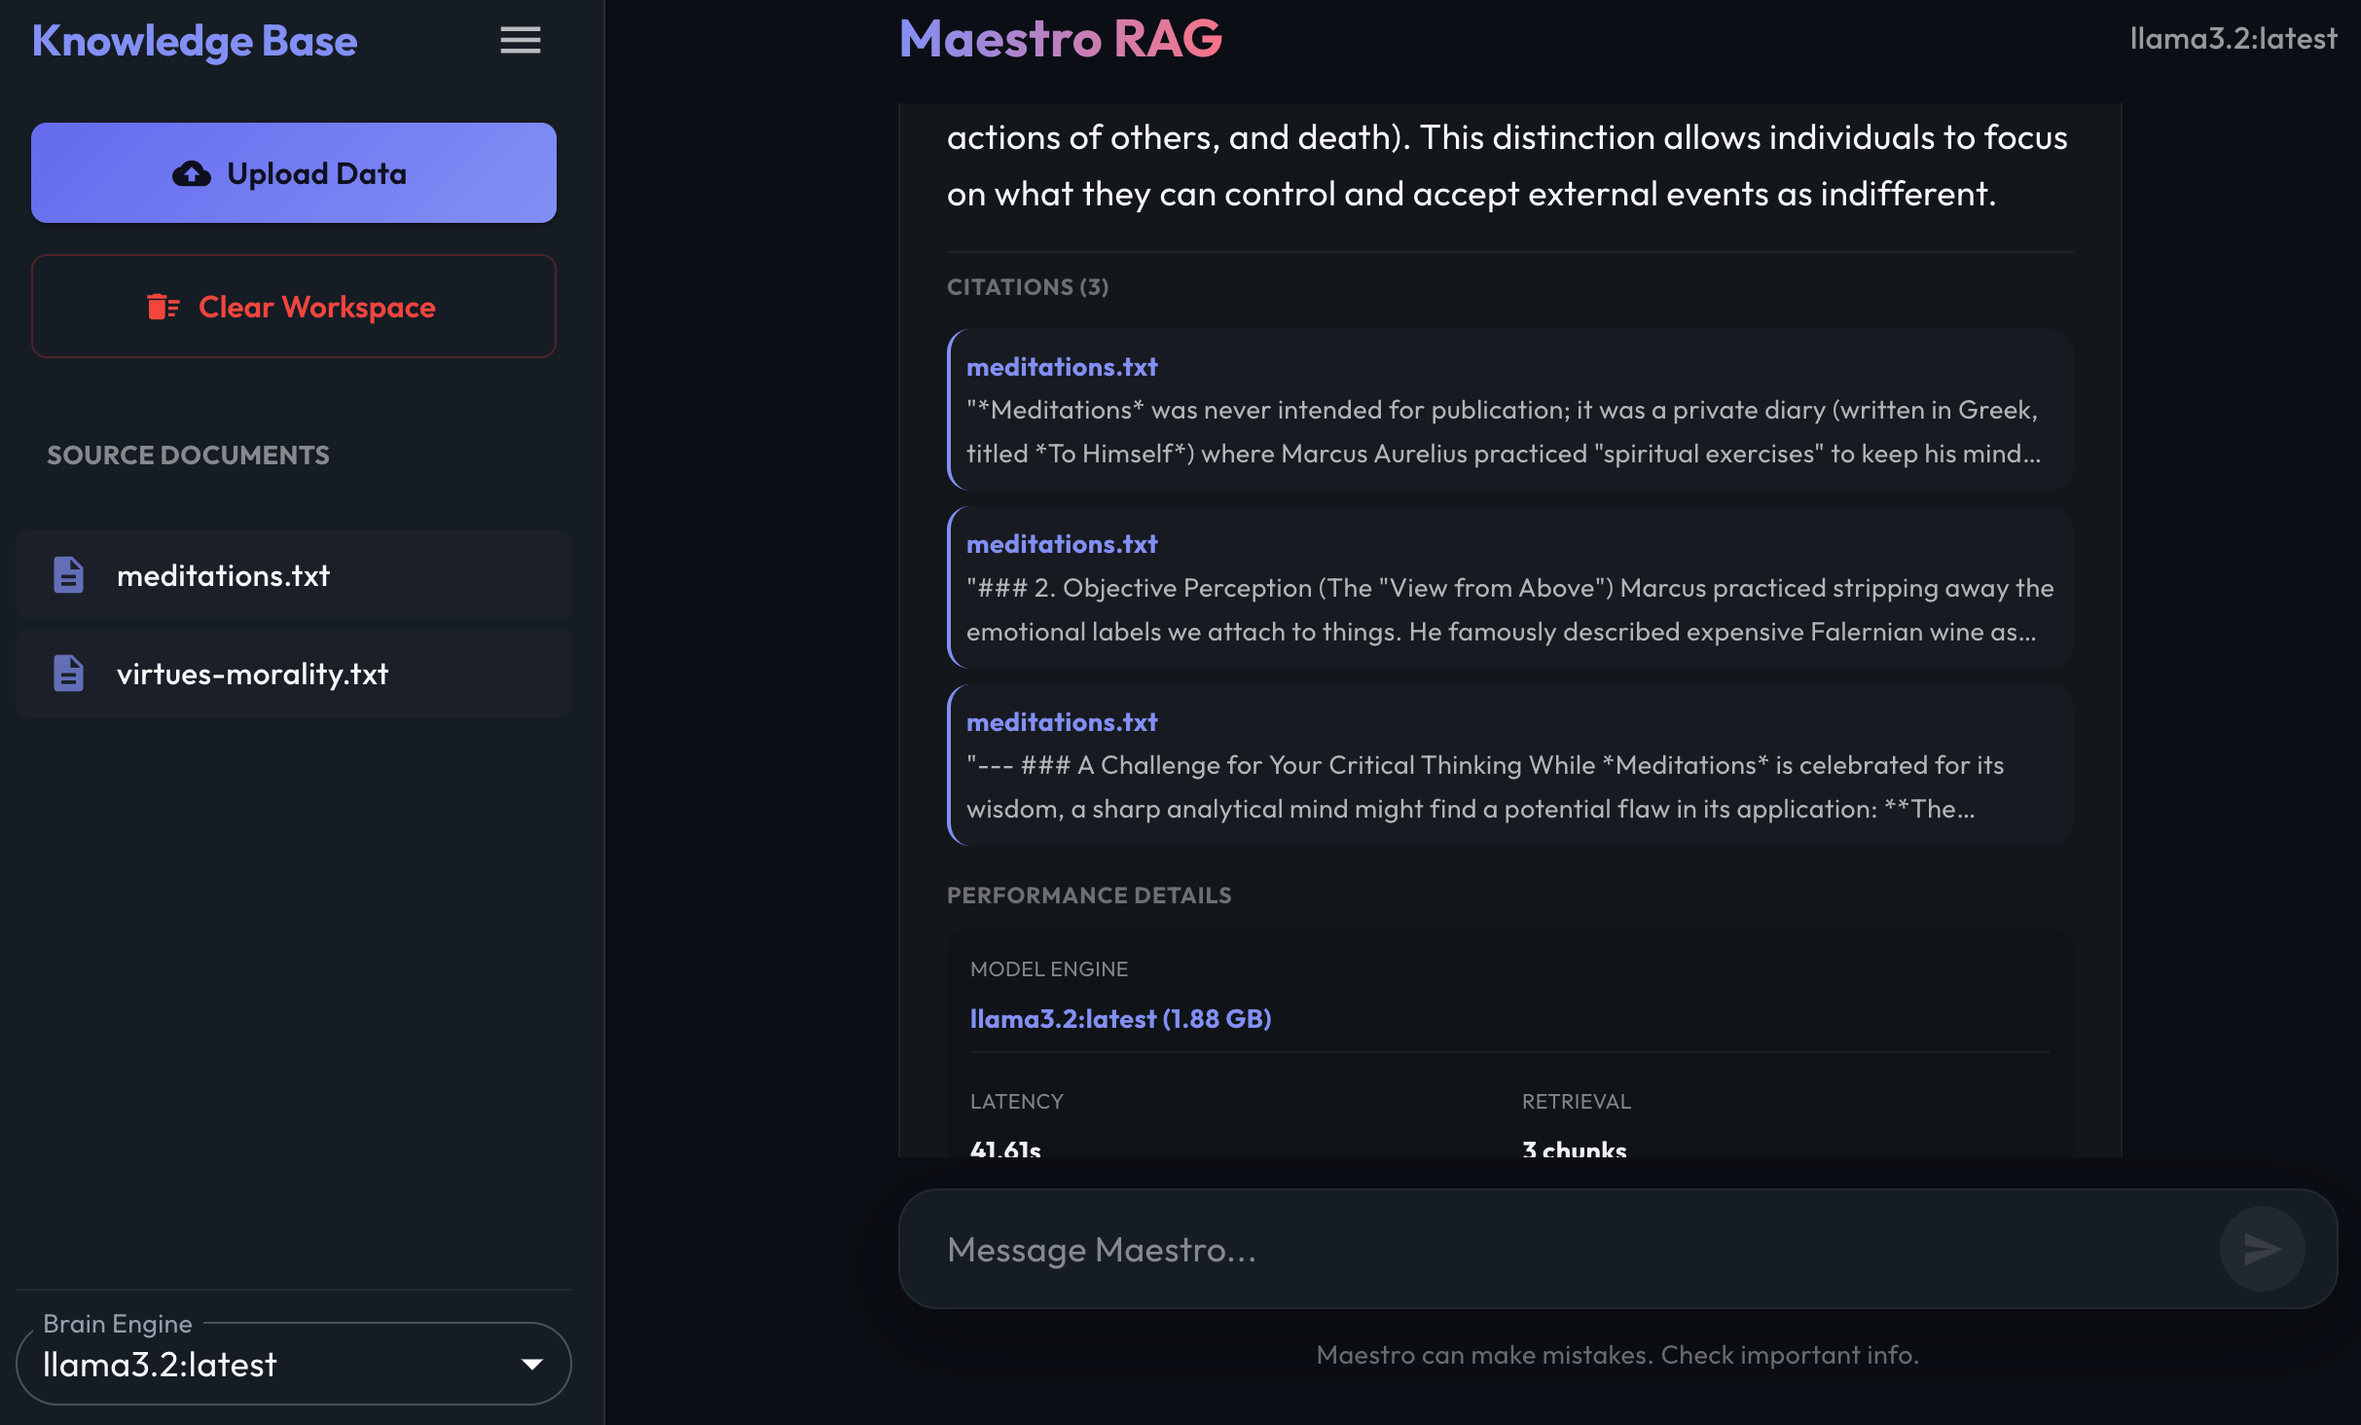
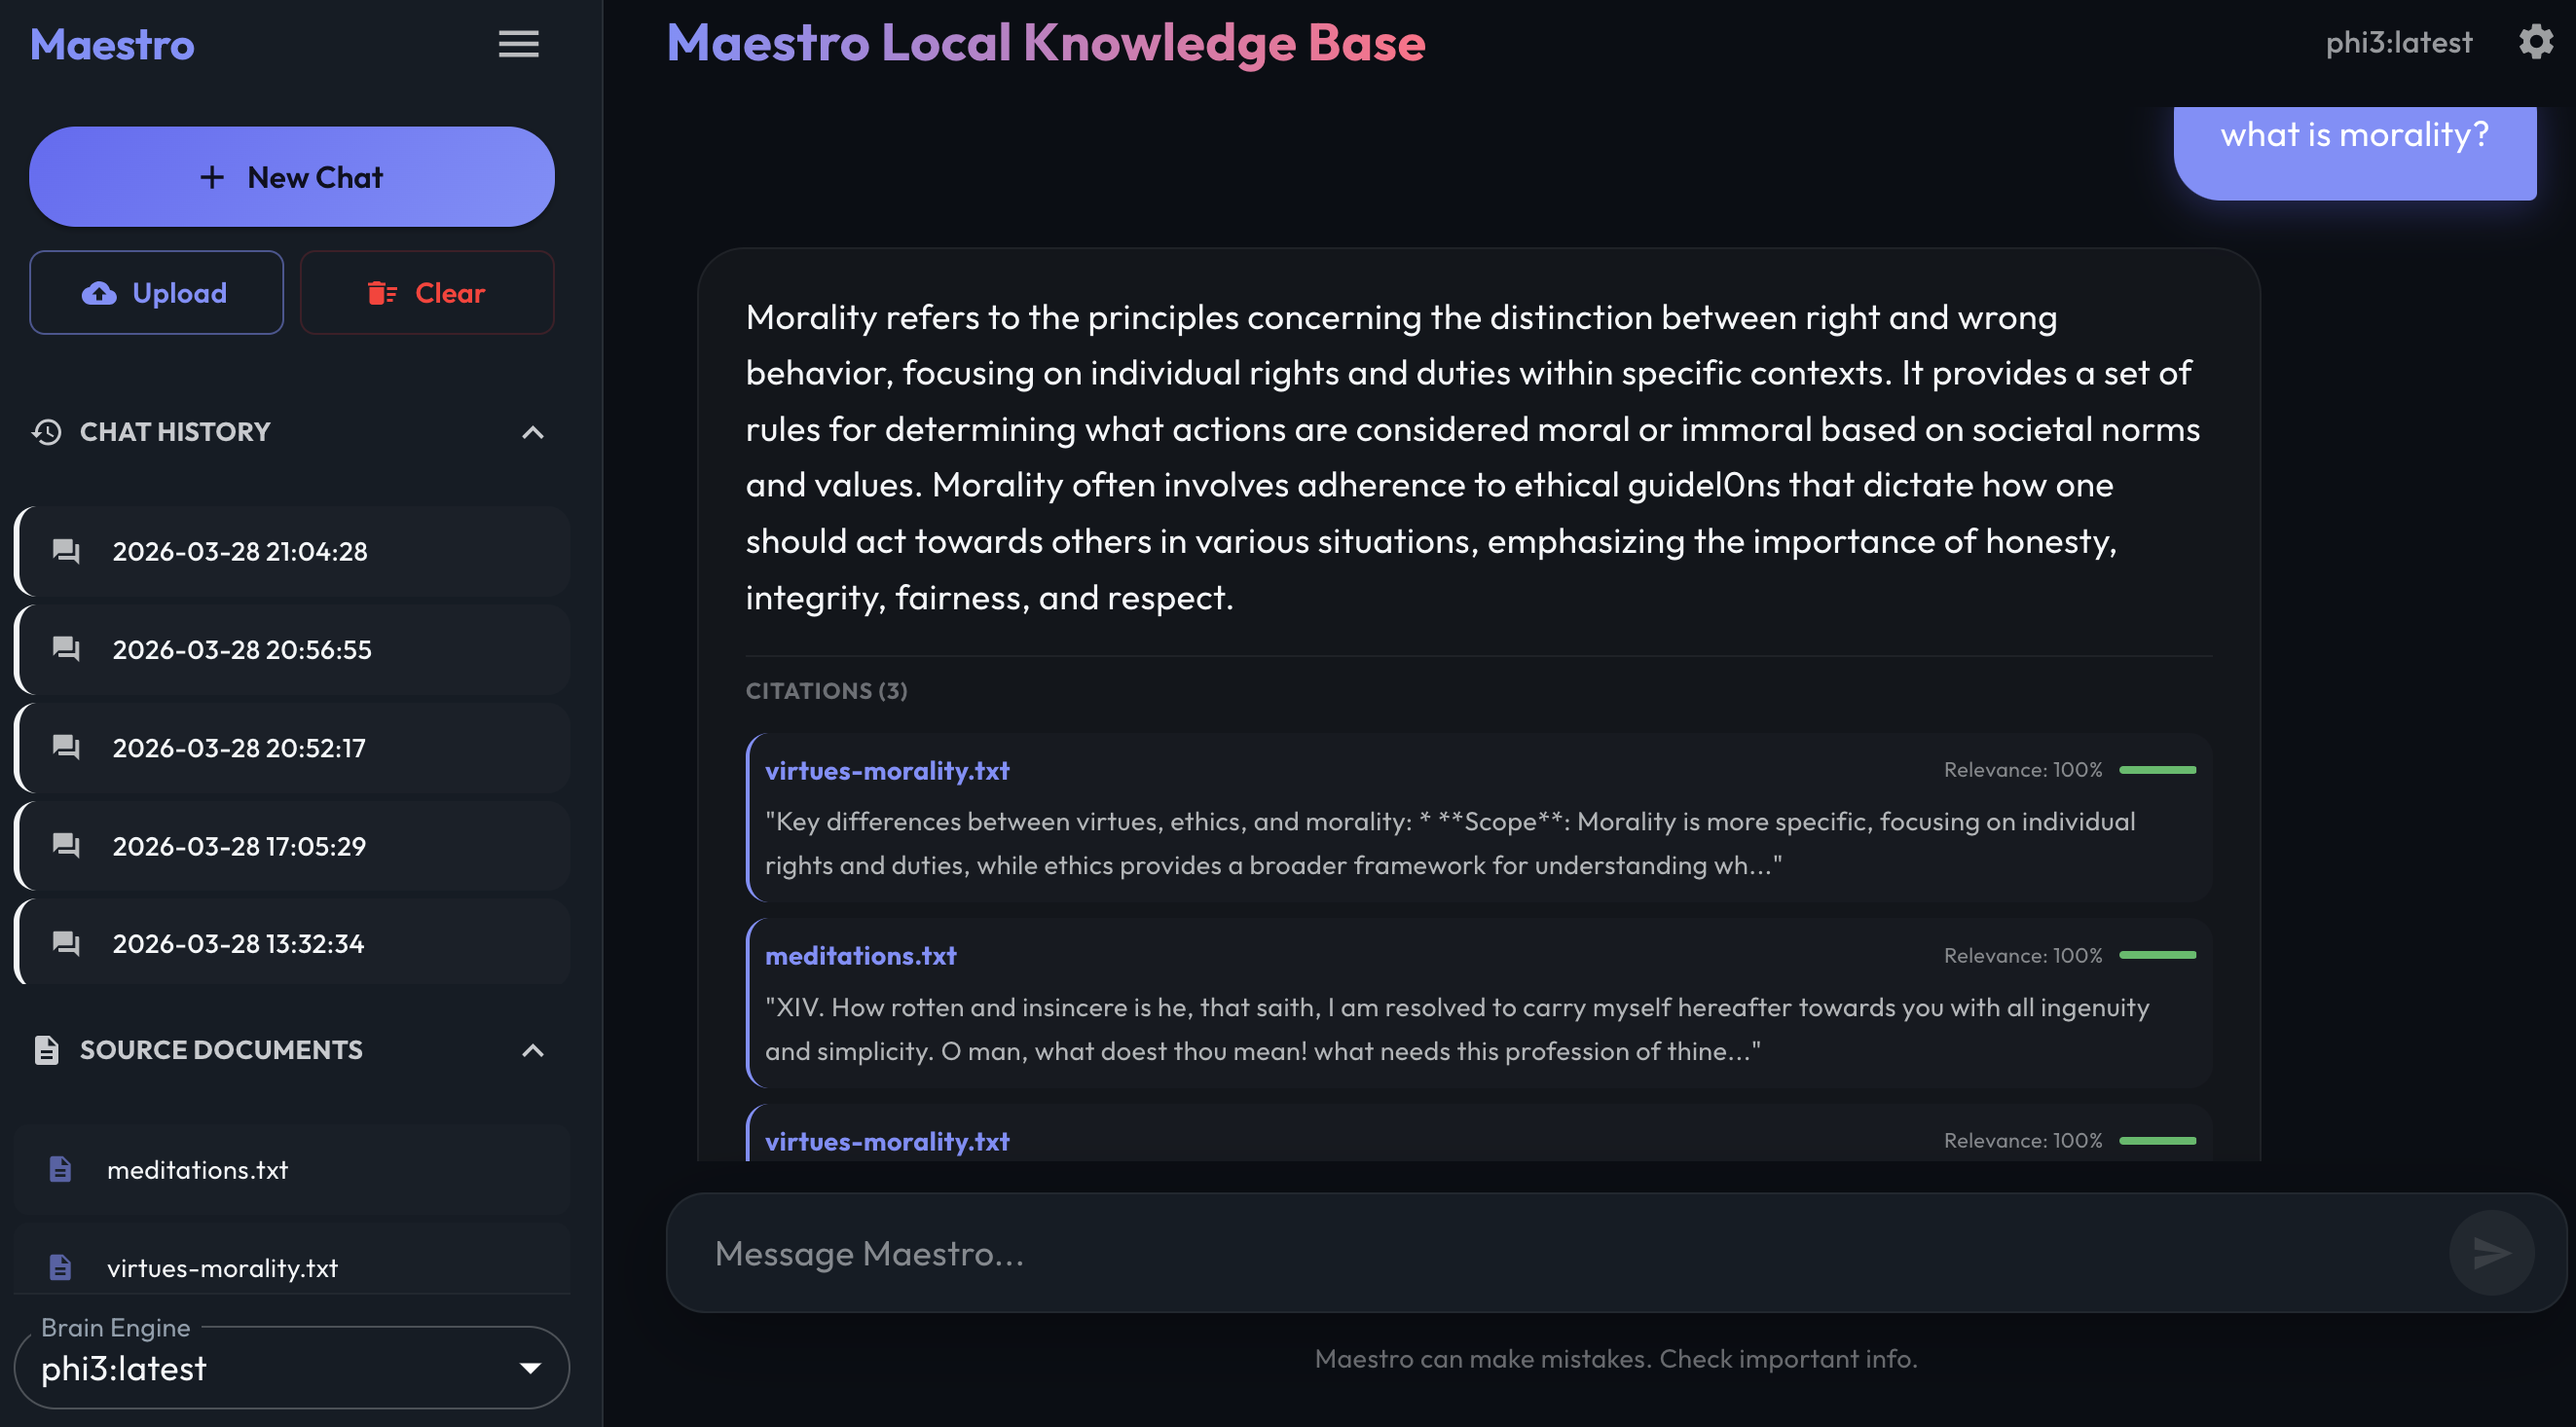
introducing model output settings

diff --git a/frontend/src/App.tsx b/frontend/src/App.tsx
@@ -30,6 +30,16 @@ import AddIcon from '@mui/icons-material/Add';
 import ExpandMoreIcon from '@mui/icons-material/ExpandMore';
 import ExpandLessIcon from '@mui/icons-material/ExpandLess';
 import ForumIcon from '@mui/icons-material/Forum';
+import SettingsIcon from '@mui/icons-material/Settings';
+import TuneIcon from '@mui/icons-material/Tune';
+import { 
+  Slider, 
+  Dialog, 
+  DialogTitle, 
+  DialogContent, 
+  DialogActions,
+  LinearProgress
+} from '@mui/material';
 import axios from 'axios';
 import theme from './theme';
 
@@ -47,6 +57,7 @@ interface Performance {
 interface Source {
   source: string;
   content: string;
+  relevance_score?: number;
 }
 
 interface Message {
@@ -70,6 +81,10 @@ function App() {
   const [currentSessionId, setCurrentSessionId] = useState<string | null>(null);
   const [sourcesOpen, setSourcesOpen] = useState(false);
   const [historyOpen, setHistoryOpen] = useState(true);
+  const [settingsOpen, setSettingsOpen] = useState(false);
+  const [temperature, setTemperature] = useState(0.0);
+  const [topP, setTopP] = useState(0.9);
+  const [systemPrompt, setSystemPrompt] = useState("");
 
   useEffect(() => {
     fetchModels();
@@ -156,7 +171,10 @@ function App() {
         body: JSON.stringify({
           question: input,
           model: selectedModel,
-          session_id: currentSessionId
+          session_id: currentSessionId,
+          temperature: temperature,
+          top_p: topP,
+          system_prompt: systemPrompt || undefined
         }),
       });
 
@@ -541,9 +559,18 @@ function App() {
                 Maestro Local Knowledge Base
               </Typography>
             </Box>
-            <Typography variant="body2" sx={{ opacity: 0.6, fontWeight: 500 }}>
-              {selectedModel}
-            </Typography>
+            <Box sx={{ display: 'flex', alignItems: 'center', gap: 2 }}>
+              <Typography variant="body2" sx={{ opacity: 0.6, fontWeight: 500 }}>
+                {selectedModel}
+              </Typography>
+              <IconButton 
+                size="small" 
+                onClick={() => setSettingsOpen(true)}
+                sx={{ opacity: 0.6, '&:hover': { opacity: 1, color: 'primary.main' } }}
+              >
+                <SettingsIcon fontSize="small" />
+              </IconButton>
+            </Box>
           </Box>
 
           {/* Chat Messages */}
@@ -641,12 +668,28 @@ function App() {
                               borderLeft: '2px solid',
                               borderColor: 'primary.main',
                             }}>
-                              <Typography variant="caption" sx={{ fontWeight: 700, color: 'primary.main', display: 'block' }}>
-                                {s.source}
-                              </Typography>
-                              <Typography variant="caption" sx={{ opacity: 0.7, fontStyle: 'italic', display: '-webkit-box', WebkitLineClamp: 2, WebkitBoxOrient: 'vertical', overflow: 'hidden' }}>
-                                "{s.content}"
-                              </Typography>
+                                <Box sx={{ display: 'flex', justifyContent: 'space-between', alignItems: 'center', mb: 0.5 }}>
+                                  <Typography variant="caption" sx={{ fontWeight: 700, color: 'primary.main' }}>
+                                    {s.source}
+                                  </Typography>
+                                  {s.relevance_score !== undefined && (
+                                    <Box sx={{ display: 'flex', alignItems: 'center', gap: 1 }}>
+                                      <Typography variant="caption" sx={{ fontSize: '0.6rem', opacity: 0.5 }}>
+                                        Relevance: {(s.relevance_score * 100).toFixed(0)}%
+                                      </Typography>
+                                      <Box sx={{ width: 40, height: 4, bgcolor: 'rgba(255,255,255,0.05)', borderRadius: 1, overflow: 'hidden' }}>
+                                        <Box sx={{ 
+                                          height: '100%', 
+                                          width: `${s.relevance_score * 100}%`, 
+                                          bgcolor: s.relevance_score > 0.7 ? 'success.main' : 'warning.main' 
+                                        }} />
+                                      </Box>
+                                    </Box>
+                                  )}
+                                </Box>
+                                <Typography variant="caption" sx={{ opacity: 0.7, fontStyle: 'italic', display: '-webkit-box', WebkitLineClamp: 2, WebkitBoxOrient: 'vertical', overflow: 'hidden' }}>
+                                  "{s.content}"
+                                </Typography>
                             </Box>
                           ))}
                         </Box>
@@ -781,6 +824,78 @@ function App() {
           </Box>
         </Box>
       </Box>
+      <Dialog 
+        open={settingsOpen} 
+        onClose={() => setSettingsOpen(false)}
+        maxWidth="sm"
+        fullWidth
+        PaperProps={{
+          className: "glass",
+          sx: { borderRadius: 3, p: 1 }
+        }}
+      >
+        <DialogTitle sx={{ display: 'flex', alignItems: 'center', gap: 1.5, fontWeight: 700 }}>
+          <TuneIcon color="primary" /> Advanced Model Settings
+        </DialogTitle>
+        <DialogContent>
+          <Box sx={{ mt: 2, display: 'flex', flexDirection: 'column', gap: 4 }}>
+            <Box>
+              <Typography variant="subtitle2" gutterBottom sx={{ display: 'flex', justifyContent: 'space-between' }}>
+                Temperature <span>{temperature.toFixed(1)}</span>
+              </Typography>
+              <Typography variant="caption" sx={{ opacity: 0.5, display: 'block', mb: 1.5 }}>
+                Controls randomness. Higher values make output more creative, lower values more focused.
+              </Typography>
+              <Slider 
+                value={temperature} 
+                onChange={(_, v) => setTemperature(v as number)} 
+                min={0} max={1} step={0.1}
+                valueLabelDisplay="auto"
+              />
+            </Box>
+            
+            <Box>
+              <Typography variant="subtitle2" gutterBottom sx={{ display: 'flex', justifyContent: 'space-between' }}>
+                Top-P <span>{topP.toFixed(2)}</span>
+              </Typography>
+              <Typography variant="caption" sx={{ opacity: 0.5, display: 'block', mb: 1.5 }}>
+                Nucleus sampling. Probability threshold for choosing next tokens.
+              </Typography>
+              <Slider 
+                value={topP} 
+                onChange={(_, v) => setTopP(v as number)} 
+                min={0} max={1} step={0.05}
+                valueLabelDisplay="auto"
+              />
+            </Box>
+
+            <Box>
+              <Typography variant="subtitle2" gutterBottom>Custom System Prompt</Typography>
+              <Typography variant="caption" sx={{ opacity: 0.5, display: 'block', mb: 1.5 }}>
+                Overrides the default behavior of the assistant. Leave blank for default.
+              </Typography>
+              <TextField 
+                fullWidth 
+                multiline 
+                rows={4} 
+                placeholder="You are an expert researcher..."
+                value={systemPrompt}
+                onChange={(e) => setSystemPrompt(e.target.value)}
+                sx={{ 
+                  bgcolor: 'rgba(0,0,0,0.2)', 
+                  borderRadius: 2,
+                  '& .MuiOutlinedInput-notchedOutline': { border: 'none' }
+                }}
+              />
+            </Box>
+          </Box>
+        </DialogContent>
+        <DialogActions sx={{ p: 3 }}>
+          <Button onClick={() => setSettingsOpen(false)} variant="contained" sx={{ px: 4, borderRadius: 2 }}>
+            Done
+          </Button>
+        </DialogActions>
+      </Dialog>
     </ThemeProvider>
   );
 }

diff --git a/backend/main.py b/backend/main.py
@@ -26,6 +26,9 @@ class QueryRequest(BaseModel):
     question: str
     model: str = "llama3.2:latest"
     session_id: Optional[str] = None
+    temperature: Optional[float] = 0.0
+    top_p: Optional[float] = 0.9
+    system_prompt: Optional[str] = None
 
 class QueryResponse(BaseModel):
     answer: str
@@ -80,7 +83,15 @@ async def query_document_stream(request: QueryRequest):
             ans_chunk = None
             
             # Start generator
-            gen = rag_service.query(request.question, request.model, stream=True, chat_history=chat_history)
+            gen = rag_service.query(
+                request.question, 
+                request.model, 
+                stream=True, 
+                chat_history=chat_history,
+                temperature=request.temperature,
+                top_p=request.top_p,
+                custom_system_prompt=request.system_prompt
+            )
             
             # Prefix with session info
             yield f"SESSION_ID:{session_id}\n"
@@ -93,9 +104,16 @@ async def query_document_stream(request: QueryRequest):
                     
                     sources = []
                     for doc in chunk["context"]:
+                        # Some re-rankers use 'relevance_score', others just 'score'
+                        score = doc.metadata.get("relevance_score") or doc.metadata.get("score")
+                        if score is None:
+                            # Fallback if re-ranking didn't provide a score but context exists
+                            score = 0.85 
+                        
                         sources.append({
                             "source": doc.metadata.get("source_file", "Unknown"),
-                            "content": doc.page_content[:200] + "..."
+                            "content": doc.page_content[:200] + "...",
+                            "relevance_score": float(score)
                         })
                     yield f"SOURCE_METADATA:{json.dumps(sources)}\n"
                 

diff --git a/backend/rag_service.py b/backend/rag_service.py
@@ -88,14 +88,20 @@ class RAGService:
         # After processing all chunks, refresh BM25
         self._refresh_bm25_retriever()
 
-    def query(self, question: str, model_name: str = None, stream: bool = False, chat_history: List = None):
+    def query(self, question: str, model_name: str = None, stream: bool = False, chat_history: List = None, 
+              temperature: float = 0, top_p: float = 0.9, custom_system_prompt: str = None):
         if model_name and model_name != self.model_name:
             self.model_name = model_name
             self._init_vector_store()
         
-        llm = ChatOllama(model=self.model_name, streaming=stream)
+        llm = ChatOllama(
+            model=self.model_name, 
+            streaming=stream,
+            temperature=temperature,
+            top_p=top_p
+        )
         
-        system_prompt = (
+        system_prompt = custom_system_prompt or (
             "You are an assistant for question-answering tasks. "
             "Use the following pieces of retrieved context to answer "
             "the question. If you don't know the answer, say that you "
@@ -152,7 +158,8 @@ class RAGService:
             for doc in response.get("context", []):
                 sources.append({
                     "source": doc.metadata.get("source_file", "Unknown"),
-                    "content": doc.page_content[:200] + "..." # Snippet
+                    "content": doc.page_content[:200] + "...",
+                    "relevance_score": doc.metadata.get("relevance_score", 0.0)
                 })
             return {
                 "answer": response["answer"],
